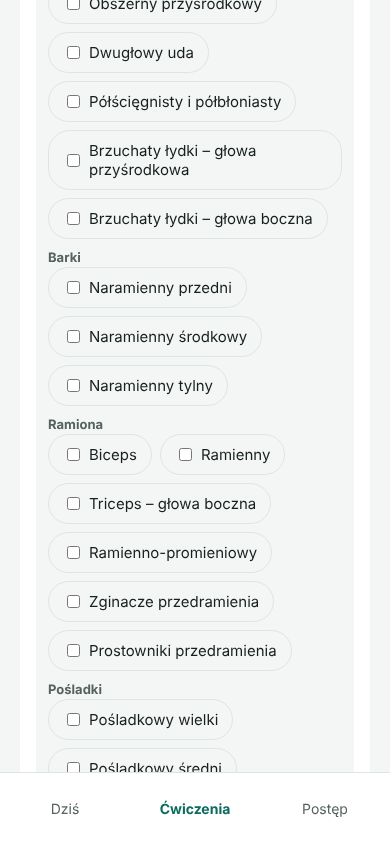
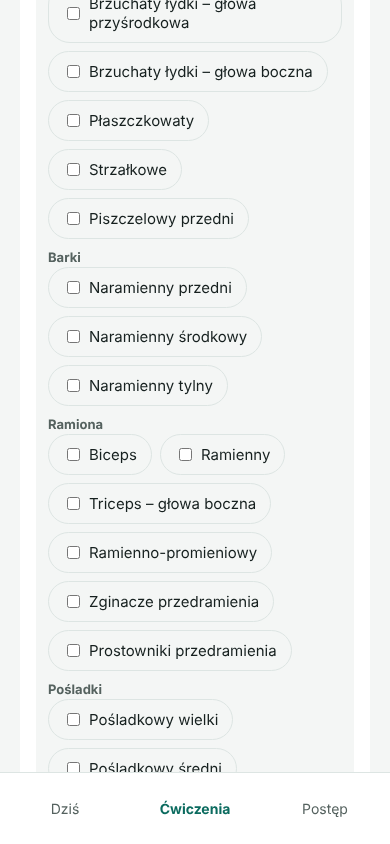
Baza ćwiczeń przy starcie, ukrywanie i przywracanie ćwiczeń
Claude-Session: https://claude.ai/code/session_01XYZpKMcxhnPhiREo3SxfLT

diff --git a/cwiczenia.js b/cwiczenia.js
@@ -41,7 +41,8 @@ const chipyRodzaje = document.getElementById("chipy-rodzaje");
 const przyciskWyczysc = document.getElementById("przycisk-wyczysc");
 
 // Aktualnie wybrane filtry (tekst zapisujemy małymi literami)
-const filtr = { tekst: "", partiaId: null, rodzajId: null, miesnieIds: [] };
+const filtr = { tekst: "", partiaId: null, rodzajId: null, miesnieIds: [], ukryte: false };
+const przyciskUkryte = document.getElementById("przycisk-ukryte");
 const filtrMiesien = document.getElementById("filtr-miesien");
 const chipyMiesnie = document.getElementById("chipy-miesnie");
 const blokMiesnieChipy = document.getElementById("blok-miesnie-chipy");
@@ -541,6 +542,9 @@ function przyciskAkcji(tekst, dodatkowaKlasa, poKliknieciu) {
 
 // Sprawdza, czy ćwiczenie pasuje do wpisanego tekstu i wybranych filtrów
 function pasujeDoFiltrow(cwiczenie) {
+  if (!!cwiczenie.ukryte !== filtr.ukryte) {
+    return false;
+  }
   if (filtr.tekst !== "" && cwiczenie.nazwa.toLowerCase().indexOf(filtr.tekst) === -1) {
     return false;
   }
@@ -589,7 +593,7 @@ function rysujFiltry() {
   // Mięśnie: po wybraniu partii chipy jej mięśni (można kilka); bez partii lista rozwijana
   const liczbaCwiczen = function (m) {
     return dane.cwiczenia.filter(function (c) {
-      return (c.miesnieIds || []).indexOf(m.id) !== -1;
+      return !c.ukryte && (c.miesnieIds || []).indexOf(m.id) !== -1;
     }).length;
   };
   chipyMiesnie.innerHTML = "";
@@ -641,6 +645,15 @@ function rysujFiltry() {
     filtrMiesien.value = "";
   }
 
+  const liczbaUkrytych = dane.cwiczenia.filter(function (c) {
+    return c.ukryte;
+  }).length;
+  if (filtr.ukryte && liczbaUkrytych === 0) {
+    filtr.ukryte = false;
+  }
+  przyciskUkryte.hidden = liczbaUkrytych === 0 && !filtr.ukryte;
+  przyciskUkryte.textContent = filtr.ukryte ? "← Wróć do listy ćwiczeń" : "Pokaż ukryte (" + liczbaUkrytych + ")";
+
   przyciskWyczysc.hidden = !(filtr.tekst !== "" || filtr.partiaId || filtr.rodzajId || filtr.miesnieIds.length > 0);
 }
 
@@ -650,6 +663,7 @@ function wyczyscFiltry() {
   filtr.partiaId = null;
   filtr.rodzajId = null;
   filtr.miesnieIds = [];
+  filtr.ukryte = false;
   poleSzukaj.value = "";
   rysujFiltry();
   rysujListe();
@@ -693,6 +707,34 @@ function dopiszPorcjami(kontener, lista, zrobKarteElementu, klucz) {
 // ===== Lista ćwiczeń =====
 
 // Rysuje listę ćwiczeń na ekranie (tylko te, które pasują do filtrów)
+function usunCwiczenie(cwiczenie) {
+  // Sprawdzamy, w ilu treningach jest to ćwiczenie
+  const uzycia = dane.treningi.filter(function (trening) {
+    return trening.cwiczeniaIds.indexOf(cwiczenie.id) !== -1;
+  }).length;
+
+  let pytanie = "Usunąć ćwiczenie „" + cwiczenie.nazwa + "”?";
+  if (uzycia > 0) {
+    pytanie += "\n\nZostanie też usunięte z treningów (" + uzycia + ").";
+  }
+
+  if (confirm(pytanie)) {
+    dane.cwiczenia = dane.cwiczenia.filter(function (inne) {
+      return inne.id !== cwiczenie.id;
+    });
+    dane.treningi.forEach(function (trening) {
+      trening.cwiczeniaIds = trening.cwiczeniaIds.filter(function (id) {
+        return id !== cwiczenie.id;
+      });
+    });
+    zapiszDane();
+    rysujListe();
+    if (typeof rysujTreningi === "function") {
+      rysujTreningi();
+    }
+  }
+}
+
 function rysujListe() {
   listaCwiczen.innerHTML = "";
   if (typeof odswiezPrzelacznik === "function") {
@@ -734,6 +776,27 @@ function rysujListe() {
     tekst.appendChild(opis);
     karta.appendChild(tekst);
 
+    if (cwiczenie.ukryte) {
+      karta.classList.add("karta-ukryta");
+      karta.appendChild(
+        przyciskAkcji("Przywróć", "", function () {
+          cwiczenie.ukryte = false;
+          zapiszDane();
+          rysujFiltry();
+          rysujListe();
+          if (typeof rysujTreningi === "function") {
+            rysujTreningi();
+          }
+        })
+      );
+      if (!cwiczenie.zBazy) {
+        karta.appendChild(przyciskAkcji("Usuń", "usun", function () {
+          usunCwiczenie(cwiczenie);
+        }));
+      }
+      return karta;
+    }
+
     if ((cwiczenie.miesnieIds || []).length > 0) {
       karta.appendChild(
         przyciskAkcji("Mięśnie", "", function () {
@@ -765,37 +828,27 @@ function rysujListe() {
     );
 
     karta.appendChild(
-      przyciskAkcji("Usuń", "usun", function () {
-        // Sprawdzamy, w ilu treningach jest to ćwiczenie
-        const uzycia = dane.treningi.filter(function (trening) {
-          return trening.cwiczeniaIds.indexOf(cwiczenie.id) !== -1;
-        }).length;
-
-        let pytanie = "Usunąć ćwiczenie „" + cwiczenie.nazwa + "”?";
-        if (uzycia > 0) {
-          pytanie += "\n\nZostanie też usunięte z treningów (" + uzycia + ").";
-        }
-
-        if (confirm(pytanie)) {
-          dane.cwiczenia = dane.cwiczenia.filter(function (inne) {
-            return inne.id !== cwiczenie.id;
-          });
-          dane.treningi.forEach(function (trening) {
-            trening.cwiczeniaIds = trening.cwiczeniaIds.filter(function (id) {
-              return id !== cwiczenie.id;
-            });
-          });
-          zapiszDane();
-          rysujListe();
-          if (typeof rysujTreningi === "function") {
-            rysujTreningi();
-          }
+      przyciskAkcji("Ukryj", "", function () {
+        cwiczenie.ukryte = true;
+        zapiszDane();
+        rysujFiltry();
+        rysujListe();
+        if (typeof rysujTreningi === "function") {
+          rysujTreningi();
         }
       })
     );
 
+    if (!cwiczenie.zBazy) {
+      karta.appendChild(
+        przyciskAkcji("Usuń", "usun", function () {
+          usunCwiczenie(cwiczenie);
+        })
+      );
+    }
+
     return karta;
-  }, [filtr.tekst, filtr.partiaId, filtr.rodzajId, filtr.miesnieIds.join(",")].join("|"));
+  }, [filtr.tekst, filtr.partiaId, filtr.rodzajId, filtr.miesnieIds.join(","), filtr.ukryte].join("|"));
 }
 
 // ===== Podpięcie przycisków =====
@@ -824,6 +877,11 @@ anTlo.addEventListener("click", function (zdarzenie) {
   }
 });
 przyciskWyczysc.addEventListener("click", wyczyscFiltry);
+przyciskUkryte.addEventListener("click", function () {
+  filtr.ukryte = !filtr.ukryte;
+  rysujFiltry();
+  rysujListe();
+});
 filtrMiesien.addEventListener("change", function () {
   const m = znajdzKategorie(filtrMiesien.value);
   if (m) {

diff --git a/kopia.js b/kopia.js
@@ -106,7 +106,8 @@ function nazwaKlucz(tekst) {
 }
 
 // Dopisuje ćwiczenia z listy; zwraca podsumowanie
-function dodajCwiczeniaZListy(lista) {
+function dodajCwiczeniaZListy(lista, opcje) {
+  opcje = opcje || {};
   const wynik = { dodane: 0, duplikaty: 0, bledy: [], nowePartie: [] };
   const zajete = {};
   dane.cwiczenia.forEach(function (c) {
@@ -188,6 +189,9 @@ function dodajCwiczeniaZListy(lista) {
       const istniejace = dane.cwiczenia.find(function (c) {
         return nazwaKlucz(c.nazwa) === nazwaKlucz(nazwa);
       });
+      if (istniejace && opcje.zBazy) {
+        istniejace.zBazy = true;
+      }
       if (istniejace && miesnieIds.length > 0 && !(istniejace.miesnieIds || []).length) {
         istniejace.miesnieIds = miesnieIds;
         istniejace.partieIds = istniejace.partieIds || [];
@@ -203,6 +207,9 @@ function dodajCwiczeniaZListy(lista) {
       return;
     }
 
+    if (opcje.tylkoOznacz) {
+      return;
+    }
     dane.cwiczenia.push({
       id: "cw-" + Date.now() + "-" + dane.cwiczenia.length,
       nazwa: nazwa,
@@ -211,6 +218,7 @@ function dodajCwiczeniaZListy(lista) {
       partieIds: partieIds,
       miesnieIds: miesnieIds,
       link: typeof wpis.link === "string" ? wpis.link.trim() : "",
+      zBazy: !!opcje.zBazy,
       zCiezarem: wpis.ciezar === true || (wpis.ciezar !== false && rodzaj.id === "rodzaj-cialo")
     });
     zajete[nazwaKlucz(nazwa)] = true;
@@ -220,8 +228,8 @@ function dodajCwiczeniaZListy(lista) {
   return wynik;
 }
 
-function dodajIPokaz(lista) {
-  const w = dodajCwiczeniaZListy(lista);
+function dodajIPokaz(lista, opcje) {
+  const w = dodajCwiczeniaZListy(lista, opcje);
   zapiszDane();
   if (typeof rysujListe === "function") {
     rysujFiltry();
@@ -292,8 +300,40 @@ document.getElementById("kopia-przyklady").addEventListener("click", function ()
   })).then(function (wyniki) {
     let lista = [];
     wyniki.forEach(function (w) { lista = lista.concat(w.cwiczenia || []); });
-    dodajIPokaz(lista);
+    dodajIPokaz(lista, { zBazy: true });
   }).catch(function () {
     pokazInfoKopii("Nie udało się pobrać przykładów. Sprawdź internet i spróbuj ponownie.", true);
   });
 });
+
+// ===== Baza ćwiczeń wczytywana przy starcie =====
+// Nowa osoba dostaje gotową bazę. Kto ma już ćwiczenia, dostaje tylko oznaczenie, które z nich
+// pochodzą z bazy (takie można ukryć, ale nie usunąć). Brak internetu: spróbujemy przy następnym starcie.
+
+const WERSJA_BAZY = 1;
+const PLIKI_BAZY = ["przyklady-kalistenika.json", "przyklady-silownia.json", "przyklady-mobilnosc.json"];
+
+function wczytajBazeStartowa() {
+  if ((dane.wersjaBazy || 0) >= WERSJA_BAZY) {
+    return;
+  }
+  const mialaCwiczenia = dane.cwiczenia.length > 0;
+  Promise.all(PLIKI_BAZY.map(function (a) {
+    return fetch(a).then(function (o) { return o.json(); });
+  })).then(function (wyniki) {
+    let lista = [];
+    wyniki.forEach(function (w) { lista = lista.concat(w.cwiczenia || []); });
+    dodajCwiczeniaZListy(lista, { zBazy: true, tylkoOznacz: mialaCwiczenia });
+    dane.wersjaBazy = WERSJA_BAZY;
+    zapiszDane();
+    if (typeof rysujListe === "function") {
+      rysujFiltry();
+      rysujListe();
+    }
+    if (typeof odswiezPrzelacznik === "function") {
+      odswiezPrzelacznik();
+    }
+  }).catch(function () {});
+}
+
+wczytajBazeStartowa();

diff --git a/index.html b/index.html
@@ -8,7 +8,7 @@
   <meta name="theme-color" content="#0B6B5F">
   <link rel="icon" href="ikona-192.png">
   <link rel="apple-touch-icon" href="ikona-180.png">
-  <link rel="stylesheet" href="style.css?v=26">
+  <link rel="stylesheet" href="style.css?v=27">
 </head>
 <body>
 
@@ -125,6 +125,7 @@
           <select id="filtr-miesien" class="filtr-wybor"></select>
         </div>
 
+        <button class="akcja" id="przycisk-ukryte" hidden>Pokaż ukryte</button>
         <button class="akcja" id="przycisk-wyczysc" hidden>Wyczyść filtry</button>
       </div>
 
@@ -425,7 +426,7 @@
         <button class="przycisk" id="kopia-zapisz">Zapisz kopię zapasową</button>
         <button class="przycisk drugi" id="kopia-wczytaj">Wczytaj kopię</button>
         <div class="ust-linia"></div>
-        <button class="przycisk" id="kopia-przyklady">Wczytaj przykładowe ćwiczenia</button>
+        <button class="przycisk" id="kopia-przyklady">Uzupełnij bazę ćwiczeń przykładowych</button>
         <button class="przycisk drugi" id="kopia-cwiczenia">Dodaj ćwiczenia z pliku</button>
         <button class="akcja" id="kopia-wzor">Pobierz wzór pliku z ćwiczeniami</button>
         <p class="opis" id="kopia-info"></p>
@@ -494,16 +495,16 @@
     </div>
   </div>
 
-  <script src="dane.js?v=26"></script>
-  <script src="anatomia.js?v=26"></script>
-  <script src="cwiczenia.js?v=26"></script>
-  <script src="treningi.js?v=26"></script>
-  <script src="kreator.js?v=26"></script>
-  <script src="kreator2.js?v=26"></script>
-  <script src="dzis.js?v=26"></script>
-  <script src="postep.js?v=26"></script>
-  <script src="ustawienia.js?v=26"></script>
-  <script src="kopia.js?v=26"></script>
-  <script src="app.js?v=26"></script>
+  <script src="dane.js?v=27"></script>
+  <script src="anatomia.js?v=27"></script>
+  <script src="cwiczenia.js?v=27"></script>
+  <script src="treningi.js?v=27"></script>
+  <script src="kreator.js?v=27"></script>
+  <script src="kreator2.js?v=27"></script>
+  <script src="dzis.js?v=27"></script>
+  <script src="postep.js?v=27"></script>
+  <script src="ustawienia.js?v=27"></script>
+  <script src="kopia.js?v=27"></script>
+  <script src="app.js?v=27"></script>
 </body>
 </html>

diff --git a/treningi.js b/treningi.js
@@ -90,7 +90,9 @@ function dodajFilm(karta, cwiczenie) {
 
 // Pokazuje w przełączniku liczbę ćwiczeń i treningów
 function odswiezPrzelacznik() {
-  przelacznikBaza.textContent = "Baza ćwiczeń (" + dane.cwiczenia.length + ")";
+  przelacznikBaza.textContent = "Baza ćwiczeń (" + dane.cwiczenia.filter(function (c) {
+    return !c.ukryte;
+  }).length + ")";
   przelacznikTreningi.textContent = "Moje treningi (" + dane.treningi.length + ")";
 }
 
@@ -153,7 +155,7 @@ function rysujWybrane() {
 
   wybraneIds.forEach(function (id, indeks) {
     const cwiczenie = znajdzCwiczenie(id);
-    const karta = zrobKarte((indeks + 1) + ". " + cwiczenie.nazwa, opisCwiczenia(cwiczenie));
+    const karta = zrobKarte((indeks + 1) + ". " + cwiczenie.nazwa + (cwiczenie.ukryte ? " (ukryte)" : ""), opisCwiczenia(cwiczenie));
 
     const wyzej = przyciskAkcji("↑", "strzalka", function () {
       przesunWybrane(indeks, -1);
@@ -184,6 +186,9 @@ function rysujWybrane() {
 // ===== Panel wyboru ćwiczeń z bazy =====
 
 function pasujeDoWyboru(cwiczenie) {
+  if (cwiczenie.ukryte) {
+    return false;
+  }
   if (filtrWyboru.tekst !== "" && cwiczenie.nazwa.toLowerCase().indexOf(filtrWyboru.tekst) === -1) {
     return false;
   }

diff --git a/kreator2.js b/kreator2.js
@@ -1030,7 +1030,7 @@ function zrobKarteSesji(sesja, aktywnosc) {
   if (pola.indexOf("styl") !== -1) {
     // Ćwiczenia basenowe z bazy, które mają zapisane style
     const basenowe = dane.cwiczenia.filter(function (c) {
-      return c.rodzajId === aktywnosc.rodzajId && Array.isArray(c.style) && c.style.length > 0;
+      return !c.ukryte && c.rodzajId === aktywnosc.rodzajId && Array.isArray(c.style) && c.style.length > 0;
     });
 
     if (basenowe.length > 0) {
@@ -1413,7 +1413,7 @@ function rysujBudowe() {
 
   const tekstC = kr2Szukaj.value.trim().toLowerCase();
   const lista = dane.cwiczenia.filter(function (cwiczenie) {
-    return (kr2Wszystkie.checked || pasujeDoAktywnosci(cwiczenie, kr2Aktywnosc)) &&
+    return !cwiczenie.ukryte && (kr2Wszystkie.checked || pasujeDoAktywnosci(cwiczenie, kr2Aktywnosc)) &&
       (tekstC === "" || cwiczenie.nazwa.toLowerCase().indexOf(tekstC) !== -1);
   });
 

diff --git a/sw.js b/sw.js
@@ -1,6 +1,6 @@
 // Service worker: aplikacja działa bez internetu, ale zawsze najpierw próbuje pobrać nowe pliki.
 // Przy każdej wgranej paczce zmień numer wersji poniżej.
-const WERSJA = "cwiczenia-v26";
+const WERSJA = "cwiczenia-v27";
 
 const PLIKI = [
   "./", "index.html", "style.css", "manifest.webmanifest",

diff --git a/style.css b/style.css
@@ -1664,3 +1664,5 @@ h1 {
 }
 .pp-historia-wiersz:last-child { border-bottom: 0; }
 .pp-historia-wiersz .pp-podpis { width: 100%; }
+
+.karta-ukryta { opacity: 0.65; }

diff --git a/dokumentacja/01-funkcjonalnosc.md b/dokumentacja/01-funkcjonalnosc.md
@@ -118,3 +118,10 @@ Rodzaj i mięśnie dopasowuje się po nazwie (bez względu na wielkość liter).
 - Postęp → „Poprzednie plany": zamknięte plany z procentem realizacji; dotknięcie otwiera szczegóły okresu.
 - Ćwiczenia → „Historia" przy ćwiczeniu: lista wykonań (data, serie × powt., ciężar, plan) i największy ciężar.
 - „Usuń plan" ostrzega, że kasuje historię, i proponuje „Zamknij plan (zachowaj historię)".
+
+## Baza startowa i ukrywanie ćwiczeń
+- Przy pierwszym starcie aplikacja sama wczytuje bazę (3 pliki `przyklady-*.json`, 219 ćwiczeń); `dane.wersjaBazy` zapamiętuje, że to zrobiono. Brak internetu: ponowna próba przy następnym starcie. Kto ma już ćwiczenia, dostaje tylko oznaczenie `zBazy` na pasujących nazwach.
+- Ćwiczenia z bazy (`zBazy: true`) można tylko ukryć; własne można ukryć lub usunąć.
+- „Ukryj" ustawia `ukryte: true`: ćwiczenie znika z listy, wyboru do treningów i planu oraz z liczników. „Pokaż ukryte (n)" na liście pokazuje ukryte z przyciskiem „Przywróć".
+- Ukryte ćwiczenie w istniejącym treningu zostaje (z dopiskiem „(ukryte)"); historia jest bez zmian.
+- Przycisk „Uzupełnij bazę ćwiczeń przykładowych" w Ustawieniach dopisuje brakujące ćwiczenia z bazy.
